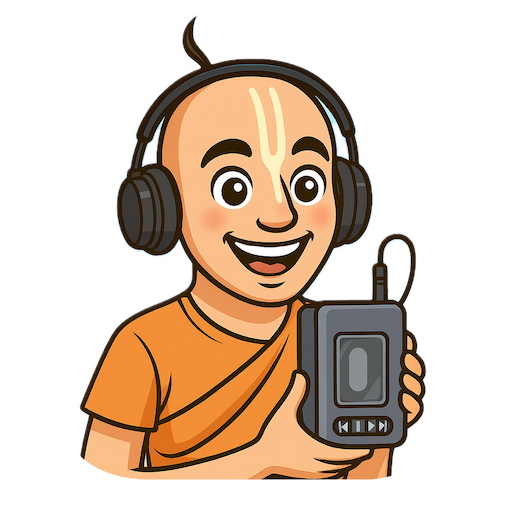
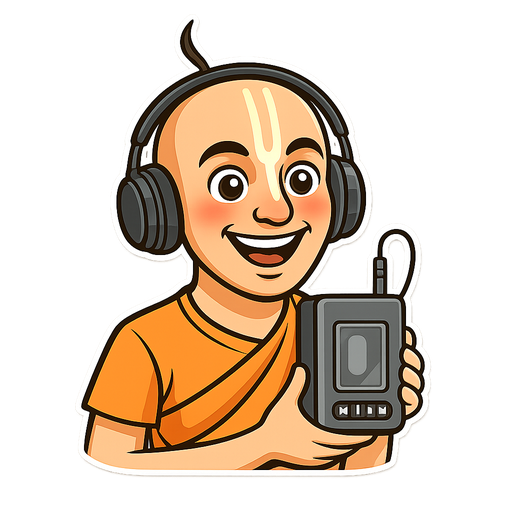
chore(mobile/assets): rename + compress empty-state PNGs
Unify naming around the `<surface>-empty.png` convention and shrink
oversized 1024×1024 PNGs that were displayed at ≤512px and weighed
1.6 MB each:

- `public/empty.png` → `public/notes-empty.png` (was ambiguous; only
  the Notes empty-state used it)
- `public/agent.png` → `public/chat-empty.png` (the large
  empty-state illustration, not to be confused with the tab-bar
  `agent-icon.png`)
- `public/playlist-empty.png` kept; just resized
- All three empty-state illustrations → 512×512 (≈230 KB each)
- `public/app-icon.png` (Welcome logo, displayed at 120×120) → 512×512
  (203 KB, was 785 KB)
- `public/agent-icon.png` (chat tab icon, displayed at 28-32px) →
  256×256 (57 KB, was 1.6 MB)

`assets/icon-only.png` left untouched — it's the canonical 1024×1024
source for `npm run assets:generate` (capacitor-assets app-icon
pipeline) and must stay high-res.

`public/` PNG payload: 7.2 MB → 947 KB (saves ~6.3 MB from the web
bundle that ships inside the APK).

Also removes the dark-mode `grayscale(1) brightness(0.7) opacity(0.8)`
filter from `PageSticker.vue` — illustrations now stay in color in
dark mode (user preference).

Backup of all six originals at
`resources/image-backup-2026-05-18/`.

Changed region(s): [[0.1562, 0.0312, 0.8438, 0.9375]]

diff --git a/modules/apps/mobile/shruti/views/Chat/ChatView.vue b/modules/apps/mobile/shruti/views/Chat/ChatView.vue
@@ -25,7 +25,7 @@
       <div ref="contentRef" class="chat-scroll">
         <ChatMessageList v-if="hasMessages" :messages="messages" @pick-chapter="onPickChapter" />
         <div v-else class="empty-state">
-          <img src="/agent.png" class="empty-icon" alt="" aria-hidden="true" />
+          <img src="/chat-empty.png" class="empty-icon" alt="" aria-hidden="true" />
           <SuggestionChips
             :has-current-track="hasCurrentTrack"
             :has-recent-listening="hasRecentListening"

diff --git a/modules/apps/mobile/shruti/views/Notes/NotesView.vue b/modules/apps/mobile/shruti/views/Notes/NotesView.vue
@@ -59,5 +59,5 @@ const { rows, isEmpty, query, isActionSheetOpen, actionSheetButtons, onQuery, on
   useNotesController()
 const showPlayerOnNotes = useConfig<boolean>("settings.showPlayerOnNotes", true)
 
-const emptyImage = "/empty.png"
+const emptyImage = "/notes-empty.png"
 </script>

diff --git a/modules/apps/mobile/ui/primitives/PageSticker.vue b/modules/apps/mobile/ui/primitives/PageSticker.vue
@@ -53,10 +53,4 @@ function onClick() {
 .sticker-image {
   max-width: 75%;
 }
-
-@media (prefers-color-scheme: dark) {
-  .sticker-image {
-    filter: grayscale(1) brightness(0.7) opacity(0.8);
-  }
-}
 </style>
